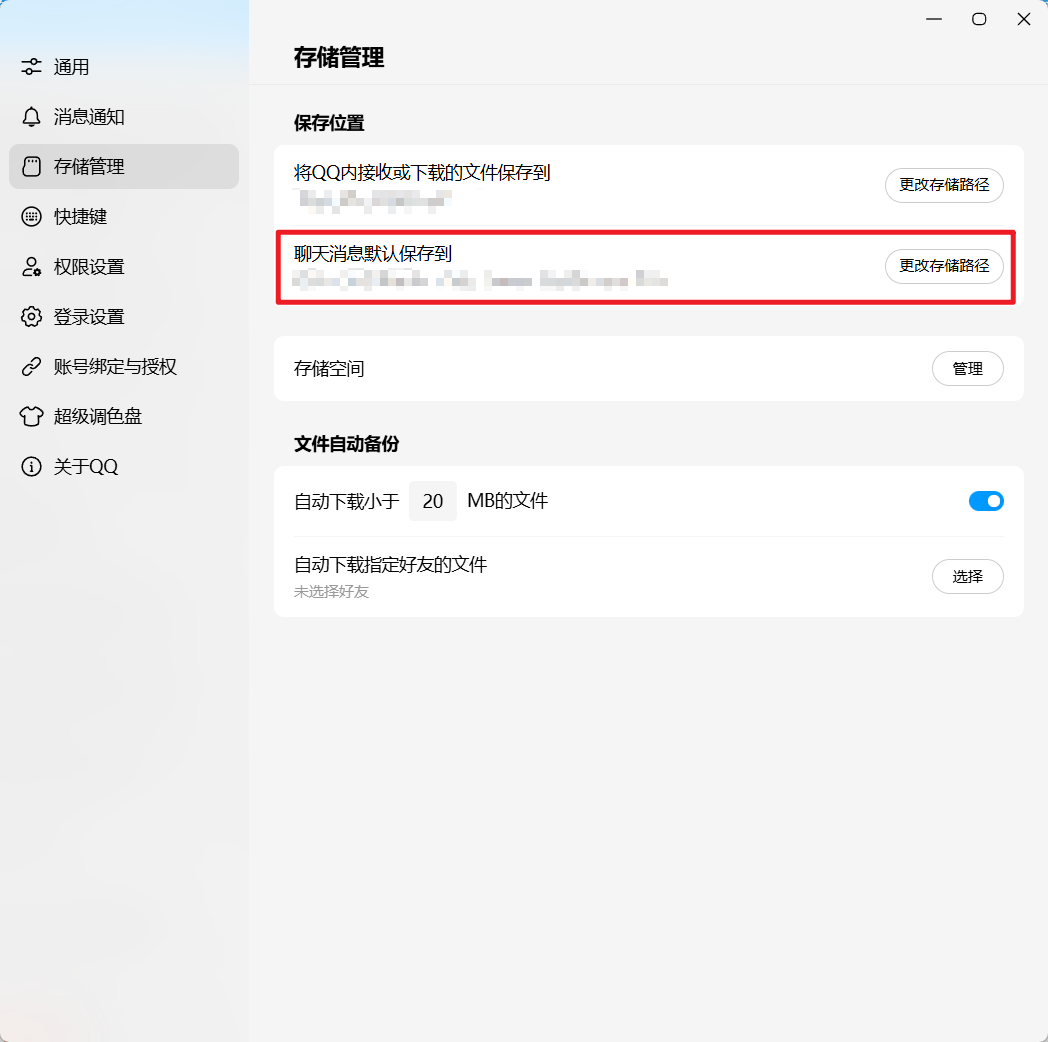
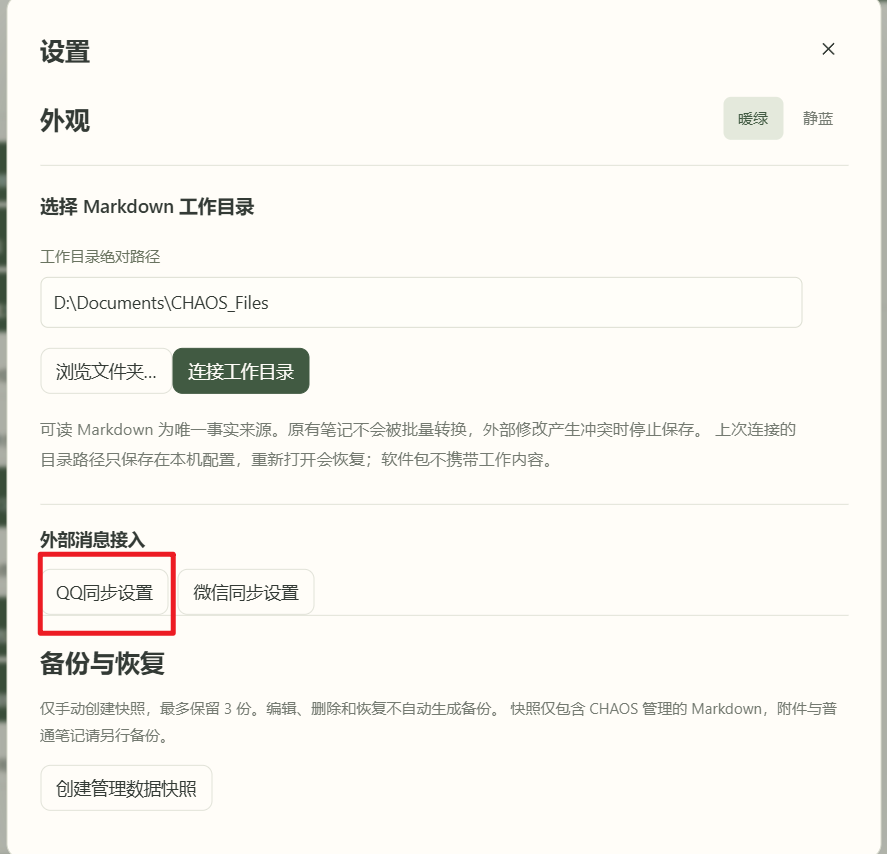
更新了QQ初始化的README

diff --git a/README.md b/README.md
@@ -139,40 +139,26 @@ npx tsx scripts/sample-vault.ts E:\CHAOS-Demo
 
 ## 接入 QQ 与 AI
 
-### 一键接入 QQ（推荐）
+### 接入 QQ（推荐）
 
 需要 **Windows、Node.js ≥ 22.12、Python 3.10–3.12（推荐 3.12）、已安装的 QQNT**。没有可用 Python 时，脚本会先尝试 winget，失败后再下载官方 Python 3.12 安装程序并安装到当前用户；3.13+ 没有 `sqlcipher3` 预编译包时会自动回退安装 3.12。QQ 不需要提前登录，脚本会负责关闭并以调试模式重新启动它。
 
-1. 关闭正在运行的 CHAOS 和 QQ；
-2. 双击项目根目录的 `setup-qq.cmd`；
-3. 脚本会检查 Node/Python，缺少 `sqlcipher3` 时自动安装；
-4. 脚本会定位 QQ 数据目录、下载并校验密钥提取脚本，然后启动 QQ；
-5. 在弹出的 QQ 窗口登录目标账号，脚本会自动捕获密钥；
-6. 脚本验证 `nt_msg.db` 可读后，把 QQ 配置写入本机 `%APPDATA%\CHAOS\settings.json`。
+1. 打开CHAOS.exe，点击右上角设置；
+![进入设置](docs\media\QQ_Step1.png)
+2. 点击QQ同步设置；
+![点击QQ同步设置](docs\media\QQ_Step2.png)
+3. 点击初始化QQ数据库读取；
+![点击初始化QQ数据库读取](docs\media\QQ_Step3.png)
+4. 输入QQ数据目录和初始化使用的QQ号；
+![初始化](docs\media\QQ_Step4.png)
 
-脚本不会把密钥打印到控制台。它会收集登录过程中出现的多个候选密钥，并逐个用 `nt_msg.db` 实际解密验证；只有验证通过的密钥才会写入配置。已配置过 QQ 的机器再次运行时通常不需要重新提取。自动同步默认保持关闭，确认测试通过后再启用。如果自动定位账号目录失败，可以指定：
-
-```powershell
-.\setup-qq.cmd -DataDir "D:\...\123456789\nt_qq" -SelfQQ "123456789"
-```
-
-这里-DataDir是QQ保存文件的路径，可以在QQ的设置中查看。具体操作如下：
-
-点击QQ左下角的三横线，点击设置
-
-![进入QQ设置](docs/media/QQ_Step1.png)
-
-进入设置，点击“储存管理”，“将聊天消息默认保存到”下方的路径即为QQ文件的保存目录，其中就包括需要用的数据库，在这个路径后面加上“\123456789\nt_qq”，即为-DataDir需要指定的路径，其中“123456789”为你的QQ号，需要进行替换
-
-![查看文件保存目录](docs/media/QQ_Step2.png)
-
-密钥提取依赖第三方调试脚本，可能触发安全软件或 QQ 安全提示；仅建议在自己的账号和电脑上使用，QQ 升级后可能需要重新提取。
-
-如果自动下载不方便，也可以手动下载 [QQBackup/qq-win-db-key](https://github.com/QQBackup/qq-win-db-key) 的 `windows_ntqq_get_key.ps1`，然后运行：
-
-```powershell
-.\scripts\setup-qq.ps1 -QqKeyExtractorPath "路径\windows_ntqq_get_key.ps1"
-```
+   - 图中的路径可以通过以下方法查看。点击QQ左下角的三横线，点击设置；
+   ![点击设置](docs\media\QQ_Step5.png)
+   - 点击“储存管理”，其中，聊天消息默认保存到的文件夹中，就有你的数据库。一般来说，在这个目录后面加上\123456789\nt_qq就是你的数据库保存位置，可以在资源管理器中查看是否存在该目录。其中“123456789”为你的QQ号，需要按照实际情况更改。
+   ![查看目录](docs\media\QQ_Step6.png)
+5. QQ号设置好之后，点击启动初始化工具，打开一个终端，按照脚本要求完成QQ密钥的获取，期间需要登录一次QQ来获取密钥。脚本验证 `nt_msg.db` 可读后，把 QQ 配置写入本机 `%APPDATA%\CHAOS\settings.json`；密钥提取依赖第三方调试脚本，可能触发安全软件或 QQ 安全提示；仅建议在自己的账号和电脑上使用，QQ 升级后可能需要重新提取。
+6. 获取成功之后，关闭终端，返回上一界面。若需自动同步，需勾选“启用后台自动同步”，然后点击“保存QQ设置”，这样就完成了QQ密钥的设置
+![保存QQ设置](docs\media\QQ_Step7.png)
 
 ### 设置 QQ 同步
 
